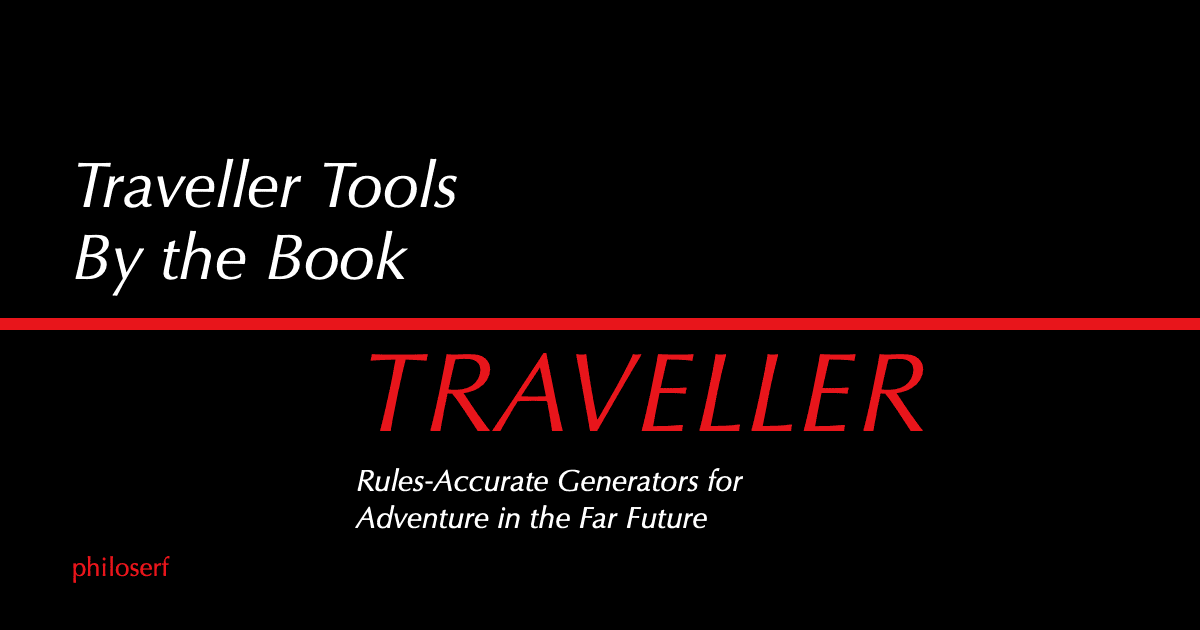
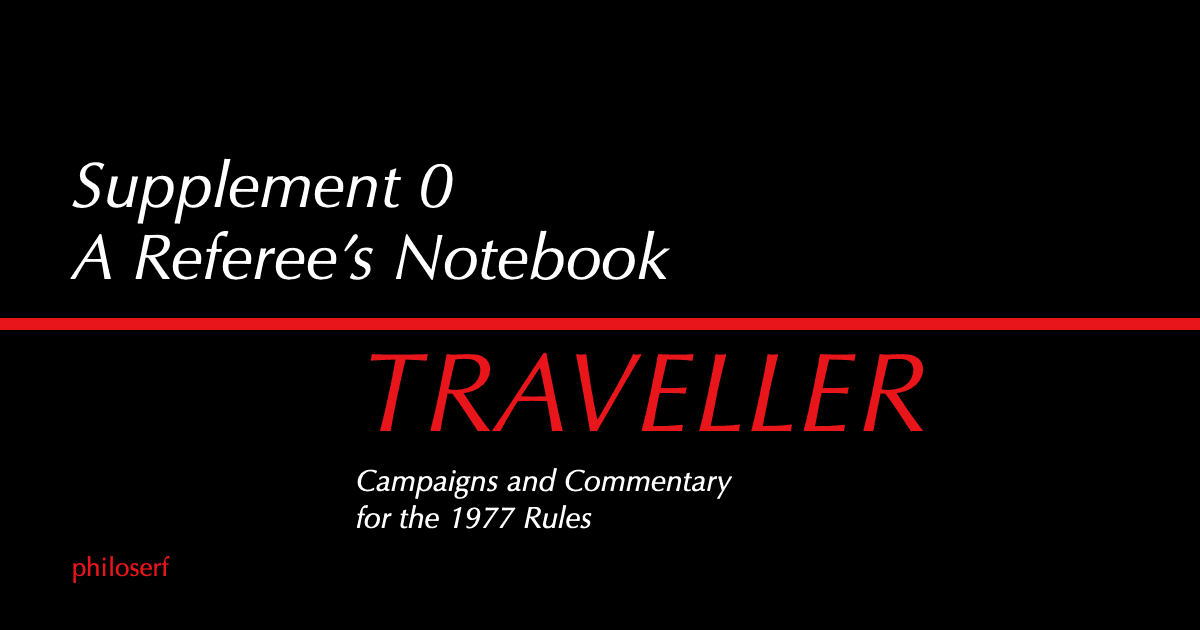
Turn the site into A Referee's Notebook (#6)
Strip the tool list and the Clement Sector note. The site is now dated
posts on 1977 Classic Traveller: the cover reads Supplement 0 / A
Referee's Notebook with the newest posts below the fold, posts number
their folios oldest first, the archive is set like the LBB contents
page, and an RSS feed carries the posts. The share image carries the
new cover lines.

Changed region(s): [[0.0617, 0.2413, 0.555, 0.4524], [0.2775, 0.7238, 0.6167, 0.8444]]

diff --git a/layouts/index.html b/layouts/index.html
@@ -5,13 +5,14 @@
 {{ end }}
 
 {{/* The 1977 Book 1 cover: two white lines, the red rule, red TRAVELLER and
-     its tagline, the publisher in red at the foot. The tool list sits below
+     its tagline, the publisher in red at the foot. The newest posts sit below
      the fold, between the cover and its foot. */}}
 {{ define "main" }}
+{{ $posts := (where .Site.RegularPages "Section" "posts").ByDate.Reverse }}
 <main id="main">
   <section class="cover">
     <div class="cover-inner">
-      <h1><span>{{ .Site.Title }}</span><span>{{ .Site.Params.home.headline }}</span></h1>
+      <h1><span>{{ .Site.Params.home.kicker }}</span><span>{{ .Site.Title }}</span></h1>
     </div>
     <hr class="cover-rule">
     <div class="cover-inner">
@@ -20,21 +21,24 @@
     </div>
   </section>
 
-  <section class="contents" aria-label="The tools">
+  <section class="contents" aria-label="Posts">
     <p>{{ .Site.Params.description }}</p>
+    {{ with $posts }}
     <ol>
-      {{ range .Site.Params.home.tools }}
+      {{ range first 10 . }}
       <li>
-        <h2><a href="https://github.com/philoserf/{{ .repo }}">{{ .repo }}</a><span class="edition">{{ .edition }}</span></h2>
-        <p>{{ .note }}</p>
+        <h2><a href="{{ .RelPermalink }}">{{ .Title }}</a><time class="edition" datetime="{{ .Date.Format "2006-01-02" }}">{{ .Date.Format "January 2, 2006" }}</time></h2>
+        <p>{{ partial "description.html" . }}</p>
       </li>
       {{ end }}
     </ol>
+    {{ if gt (len .) 10 }}<p class="contents-more"><a href="{{ "posts/" | relURL }}">All posts</a></p>{{ end }}
+    {{ end }}
   </section>
 </main>
 
 <footer class="cover-foot">
   {{ .Site.Params.publisher }}
-  <small>&copy; {{ now.Format "2006" }} {{ .Site.Params.author }} &middot; <a href="https://creativecommons.org/licenses/by-nc-sa/4.0/" rel="license">CC BY-NC-SA 4.0</a> &middot; Traveller is a registered trademark of Mongoose Publishing. Unofficial fan tools, not affiliated with or endorsed by Mongoose Publishing. <a href="{{ "disclaimer/" | relURL }}">Full disclaimer</a>.</small>
+  <small>&copy; {{ now.Format "2006" }} {{ .Site.Params.author }} &middot; <a href="https://creativecommons.org/licenses/by-nc-sa/4.0/" rel="license">CC BY-NC-SA 4.0</a> &middot; <a href="{{ "index.xml" | relURL }}">RSS</a> &middot; Traveller is a registered trademark of Mongoose Publishing. An unofficial fan site, not affiliated with or endorsed by Mongoose Publishing. <a href="{{ "disclaimer/" | relURL }}">Full disclaimer</a>.</small>
 </footer>
 {{ end }}

diff --git a/assets/css/style.css b/assets/css/style.css
@@ -1,5 +1,5 @@
 /* ============================================================
-   Traveller tools — Little Black Book theme
+   A Referee’s Notebook — Little Black Book theme
    The home page is the 1977 Book 1 cover: black, white italic
    Optima, a full-width red rule, red TRAVELLER. Every other page is
    an interior page: white paper, Univers, justified text, bold
@@ -226,6 +226,44 @@ main.prose {
   border-top: 1px solid var(--rule);
 }
 
+/* The archive, set like the LBB contents page: title, dotted leader, date. */
+.prose .toc {
+  margin: 0;
+  list-style: none;
+}
+
+.prose .toc li {
+  display: flex;
+  align-items: baseline;
+  gap: 0.3rem;
+  margin: 0 0 0.35rem;
+}
+
+.toc a {
+  text-decoration: none;
+}
+
+.toc a:hover {
+  text-decoration: underline;
+}
+
+.toc .leader {
+  flex: 1;
+  min-width: 1rem;
+  border-bottom: 2px dotted var(--ink);
+  transform: translateY(-0.25em);
+}
+
+.prose .toc time {
+  display: inline;
+  margin: 0;
+  color: inherit;
+  font-size: inherit;
+  text-align: right;
+  white-space: nowrap;
+  font-variant-numeric: tabular-nums;
+}
+
 /* The folio: a centred page number, –3–. */
 .folio {
   padding: 1rem 0 0.5rem;
@@ -305,7 +343,7 @@ main.prose {
   line-height: 1.25;
 }
 
-/* The tool list, below the fold, in the cover's own type. */
+/* The newest posts, below the fold, in the cover's own type. */
 .contents {
   padding-top: 4rem;
   padding-bottom: 4rem;
@@ -325,8 +363,7 @@ main.prose {
 
 .contents li {
   display: grid;
-  grid-template-columns: minmax(9rem, 14rem) 1fr;
-  gap: 0.4rem 2rem;
+  gap: 0.5rem;
   padding: 1.4rem 0;
   border-bottom: 1px solid #333;
 }
@@ -355,7 +392,17 @@ main.prose {
 }
 
 .contents li p {
+  max-width: 42rem;
   color: #c8c8c8;
+}
+
+.contents-more {
+  margin-top: 1.5rem;
+  font-style: italic;
+}
+
+.contents-more a:hover {
+  color: var(--cover-red);
 }
 
 /* "Game Designers' Workshop", in red at the foot of the cover. */
@@ -377,10 +424,6 @@ main.prose {
   .cover-mark,
   .cover-tagline {
     margin-left: 12%;
-  }
-
-  .contents li {
-    grid-template-columns: 1fr;
   }
 }
 

diff --git a/layouts/_default/baseof.html b/layouts/_default/baseof.html
@@ -36,6 +36,7 @@
 
   <link rel="icon" href="{{ "favicon.svg" | relURL }}" type="image/svg+xml">
   <link rel="apple-touch-icon" href="{{ "apple-touch-icon.png" | relURL }}">
+  {{ with .Site.Home.OutputFormats.Get "RSS" }}<link rel="alternate" type="application/rss+xml" title="{{ $.Site.Title }}" href="{{ .Permalink }}">{{ end }}
   <link rel="manifest" href="{{ "site.webmanifest" | relURL }}">
 
   {{ $style := resources.Get "css/style.css" | minify | fingerprint }}
@@ -58,8 +59,15 @@
       {{ end }}
     </header>
     <main id="main" class="prose">{{ block "main" . }}{{ end }}</main>
-    {{/* The folio: an interior page is numbered by its place among the regular pages by weight, or sets its own (404.html does). */}}
-    <footer class="folio">&ndash;{{ block "folio" . }}{{ $n := 1 }}{{ range $i, $p := .Site.RegularPages.ByWeight }}{{ if eq $p $ }}{{ $n = add $i 1 }}{{ end }}{{ end }}{{ $n }}{{ end }}&ndash;</footer>
+    {{/* The folio, a centred page number. A post is numbered by its place among
+         the posts, oldest first, so its number never changes; another page
+         takes front matter folio, or has none. A template can override the
+         whole block, as 404.html and list.html do. */}}
+    {{ block "folio" . }}
+    {{ $n := .Params.folio }}
+    {{ if eq .Section "posts" }}{{ range $i, $p := (where .Site.RegularPages "Section" "posts").ByDate }}{{ if eq $p $ }}{{ $n = add $i 1 }}{{ end }}{{ end }}{{ end }}
+    {{ with $n }}<footer class="folio">&ndash;{{ . }}&ndash;</footer>{{ end }}
+    {{ end }}
   </div>
   {{ end }}
 </body>

diff --git a/layouts/_default/single.html b/layouts/_default/single.html
@@ -1,8 +1,9 @@
 {{ define "head" }}
+{{ $isPost := eq .Section "posts" }}
 {{ $desc := partial "description.html" . }}
 {{ $jsonld := dict
   "@context" "https://schema.org"
-  "@type" "WebPage"
+  "@type" (cond $isPost "BlogPosting" "WebPage")
   "headline" .Title
   "name" .Title
   "url" .Permalink
@@ -11,6 +12,7 @@
   "author" (dict "@type" "Person" "name" .Site.Params.author)
   "inLanguage" .Site.Language.Locale
 }}
+{{ if and $isPost (not .Date.IsZero) }}{{ $jsonld = merge $jsonld (dict "datePublished" (.Date.Format "2006-01-02")) }}{{ end }}
 {{ if not .Lastmod.IsZero }}{{ $jsonld = merge $jsonld (dict "dateModified" (.Lastmod.Format "2006-01-02")) }}{{ end }}
 <script type="application/ld+json">{{ $jsonld | jsonify (dict "indent" "  ") | safeJS }}</script>
 {{ end }}
@@ -21,7 +23,9 @@
       {{ with .Params.eyebrow }}<p class="eyebrow">{{ . }}</p>{{ end }}
       <h1>{{ .Title }}</h1>
       {{ with .Description }}<p class="deck">{{ . }}</p>{{ end }}
-      {{ if and .Params.showUpdated (not .Lastmod.IsZero) }}
+      {{ if eq .Section "posts" }}
+        <time datetime="{{ .Date.Format "2006-01-02" }}">{{ .Date.Format "January 2, 2006" }}</time>
+      {{ else if and .Params.showUpdated (not .Lastmod.IsZero) }}
         <time datetime="{{ .Lastmod.Format "2006-01-02" }}">Updated {{ .Lastmod.Format "January 2, 2006" }}</time>
       {{ end }}
     </header>

diff --git a/layouts/_default/list.html b/layouts/_default/list.html
@@ -1,0 +1,16 @@
+{{/* The posts archive, set like the LBB contents page: titles on the left,
+     dates on the right, joined by a dotted leader. */}}
+{{ define "main" }}
+  <h1>{{ .Title }}</h1>
+  {{ with .Pages.ByDate.Reverse }}
+  <ol class="toc">
+    {{ range . }}
+    <li><a href="{{ .RelPermalink }}">{{ .Title }}</a><span class="leader" aria-hidden="true"></span><time datetime="{{ .Date.Format "2006-01-02" }}">{{ .Date.Format "Jan 2, 2006" }}</time></li>
+    {{ end }}
+  </ol>
+  {{ else }}
+  <p>Nothing here yet.</p>
+  {{ end }}
+{{ end }}
+
+{{ define "folio" }}{{ end }}

diff --git a/layouts/404.html b/layouts/404.html
@@ -4,4 +4,4 @@
   <p><a href="{{ "/" | relURL }}">Back to the cover</a></p>
 {{ end }}
 
-{{ define "folio" }}404{{ end }}
+{{ define "folio" }}<footer class="folio">&ndash;404&ndash;</footer>{{ end }}

diff --git a/CLAUDE.md b/CLAUDE.md
@@ -2,7 +2,7 @@
 
 This file provides guidance to Claude Code (claude.ai/code) when working with code in this repository.
 
-The site at `traveller.philoserf.com`: one Hugo home page listing the philoserf Traveller tools. It was scaffolded from `philoserf/sandbox` and does not track it; diverge freely.
+The site at `traveller.philoserf.com`, "A Referee’s Notebook": dated posts on 1977 Classic Traveller, the Little Black Books before the Official Traveller Universe, with some commentary on what came after. Classic Traveller only: no other edition or setting (no Clement Sector), since the site carries only Mongoose Publishing’s notice. It was scaffolded from `philoserf/sandbox` and does not track it; diverge freely.
 
 ## Commands
 
@@ -10,11 +10,12 @@ All commands use Task (`Taskfile.yml`). `task check` is the gate: the two Hugo p
 
 ## Architecture
 
-- **Config**: `hugo.yaml`. `disableKinds` turns off RSS, sections, and taxonomies; the home page outputs HTML, `llms.txt`, and `site.webmanifest`.
-- **Design**: the 1977 Little Black Books. The home page is the Book 1 cover (black, white italic Optima, a full-width red rule, red TRAVELLER); every other page is an interior page (white paper, Univers-style sans, justified text, bold underlined caps for `h2`, a centred folio). `baseof.html` gives the home page its own body and wraps every other page in the interior frame. An interior page's folio is its place among regular pages by weight; a template can set its own with a `folio` block, as `404.html` does.
-- **Home page**: `layouts/index.html` renders `params.home.tools`, linking each `repo` to `github.com/philoserf/<repo>`. `layouts/index.llms.txt` renders the same list. Add a tool by adding an entry there.
+- **Config**: `hugo.yaml`. Taxonomies are off. The home page outputs HTML, RSS (posts only, `layouts/index.rss.xml`), `llms.txt`, and `site.webmanifest`; sections output HTML only. `timeZone` makes a date-only post go live at local midnight, but nothing rebuilds on a schedule, so a future-dated post appears only at the next deploy.
+- **Design**: the 1977 Little Black Books. The home page is the Book 1 cover (black, white italic Optima, a full-width red rule, red TRAVELLER); every other page is an interior page (white paper, Univers-style sans, justified text, bold underlined caps for `h2`, a centred folio). `baseof.html` gives the home page its own body and wraps every other page in the interior frame. A post's folio is its place among the posts, oldest first, so it never changes; another page takes front matter `folio` or shows none. A template can override the `folio` block, as `404.html` and `list.html` do.
+- **Home page**: `layouts/index.html` is the cover. Its two white lines are `params.home.kicker` and the site title, its tagline `params.home.tagline`; the ten newest posts sit below the fold. `static/og-image.png` is a 1200×630 rendering of the cover lines, so redraw it when they change.
+- **Posts**: `task new:post -- <slug>` scaffolds `content/posts/<slug>.md` from `archetypes/posts.md` (`date` only, no `lastmod`; `enableGitInfo` backfills it). `layouts/_default/list.html` renders the archive like the LBB contents page, with dotted leaders.
 - **Pages**: a markdown file under `content/` renders with `layouts/_default/single.html`. Add a `menus.main` entry in `hugo.yaml` to put it in the nav.
-- **Disclaimer**: `content/disclaimer.md` holds the full Mongoose Publishing fan notice, copied from ctchargen's README; the cover footer carries the short form and links to it. Keep the two in step with the tool READMEs.
+- **Disclaimer**: `content/disclaimer.md` holds the full Mongoose Publishing fan notice, worded as in ctchargen's README; the cover footer carries the short form and links to it.
 - **Theme colors**: `params.themeColor` must match `--paper` in `assets/css/style.css`; the home page's theme-color meta in `baseof.html` must match `--cover-black`.
 
 ## Deployment

diff --git a/content/disclaimer.md b/content/disclaimer.md
@@ -3,14 +3,10 @@ title: Disclaimer
 lastmod: 2026-11-12
 ---
 
-These are unofficial fan-made tools. They are not affiliated with, endorsed by, or supported by Mongoose Publishing.
+This is an unofficial fan site. It is not affiliated with, endorsed by, or supported by Mongoose Publishing.
 
 > The Traveller game in all forms is owned by Mongoose Publishing. Copyright 1977–2026 Mongoose Publishing. Traveller is a registered trademark of Mongoose Publishing. Mongoose Publishing permits web sites and fanzines for this game, provided it contains this notice, that Mongoose Publishing is notified, and subject to a withdrawal of permission on 90 days notice. The contents of this site are for personal, non-commercial use only. Any use of Mongoose Publishing's copyrighted material or trademarks anywhere on this web site and its files should not be viewed as a challenge to those copyrights or trademarks. In addition, any program/articles/file on this site cannot be republished or distributed without the consent of the author who contributed it.
 
-## This site and the tools
+## This site
 
-Each tool's own code is under the MIT license, and this site's text is under [CC BY-NC-SA 4.0](https://creativecommons.org/licenses/by-nc-sa/4.0/). The Traveller material the tools implement (the rules, their tables, and the Traveller name) stays under Mongoose Publishing's non-commercial permission above. The rulebooks are not redistributed here.
-
-## Clement Sector
-
-cschargen generates characters for Clement Sector, which is Cepheus Engine-compatible rather than Traveller. It is not affiliated with Independence Games, Samardan Press, Mongoose Publishing, or Far Future Enterprises.
+This site's own writing is under [CC BY-NC-SA 4.0](https://creativecommons.org/licenses/by-nc-sa/4.0/). The Traveller material it discusses (the rules, their tables, and the Traveller name) stays under Mongoose Publishing's non-commercial permission above. The rulebooks are not reproduced here.

diff --git a/README.md b/README.md
@@ -1,6 +1,6 @@
 # traveller
 
-The site at [traveller.philoserf.com](https://traveller.philoserf.com/): a home page for the philoserf Traveller tools ([t5chargen](https://github.com/philoserf/t5chargen), [ctchargen](https://github.com/philoserf/ctchargen), [ctworldgen](https://github.com/philoserf/ctworldgen), [cschargen](https://github.com/philoserf/cschargen)).
+The site at [traveller.philoserf.com](https://traveller.philoserf.com/): _A Referee’s Notebook_, campaigns and commentary for the 1977 Classic Traveller rules.
 
 A Hugo site styled after the 1977 Little Black Books: the home page is the Book 1 cover, and any other page is an interior page. Scaffolded from [philoserf/sandbox](https://github.com/philoserf/sandbox).
 
@@ -8,7 +8,7 @@ A Hugo site styled after the 1977 Little Black Books: the home page is the Book 
 
 `task setup` installs the toolchain from `Brewfile`. Then `task dev` serves locally, `task check` runs the strict build in memory, and `task deploy` builds and deploys by hand.
 
-The tool list is `params.home.tools` in `hugo.yaml`. Each entry's `repo` is a `philoserf` GitHub repo name.
+`task new:post -- <slug>` starts a post in `content/posts/`. Posts start as drafts; remove `draft: true` to publish.
 
 ## Deployment
 

diff --git a/archetypes/posts.md b/archetypes/posts.md
@@ -1,0 +1,5 @@
+---
+title: '{{ replace .File.ContentBaseName "-" " " | title }}'
+date: {{ now.Format "2006-01-02" }}
+draft: true
+---

diff --git a/content/_index.md b/content/_index.md
@@ -1,4 +1,4 @@
 ---
-title: Traveller Tools
+title: A Referee’s Notebook
 lastmod: 2026-11-12
 ---

diff --git a/content/posts/_index.md b/content/posts/_index.md
@@ -1,0 +1,4 @@
+---
+title: Posts
+lastmod: 2026-11-12
+---
